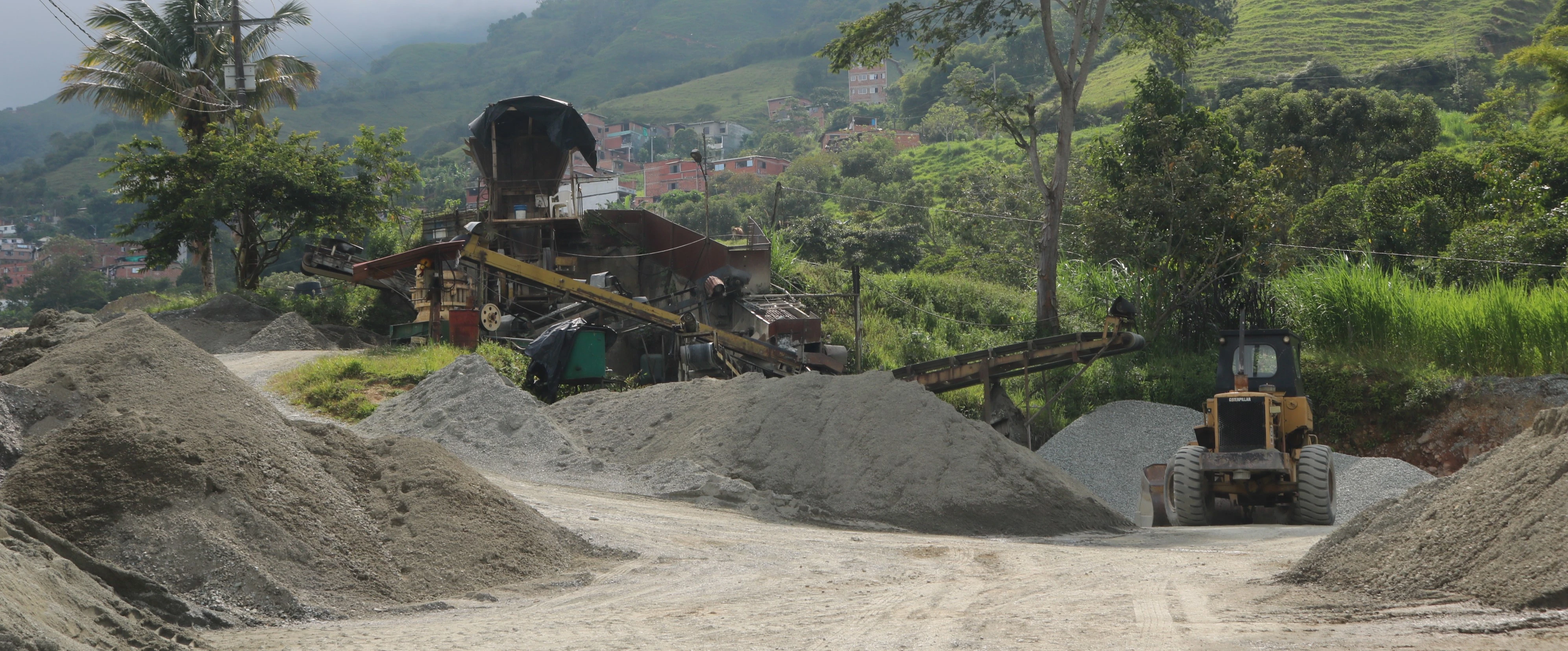
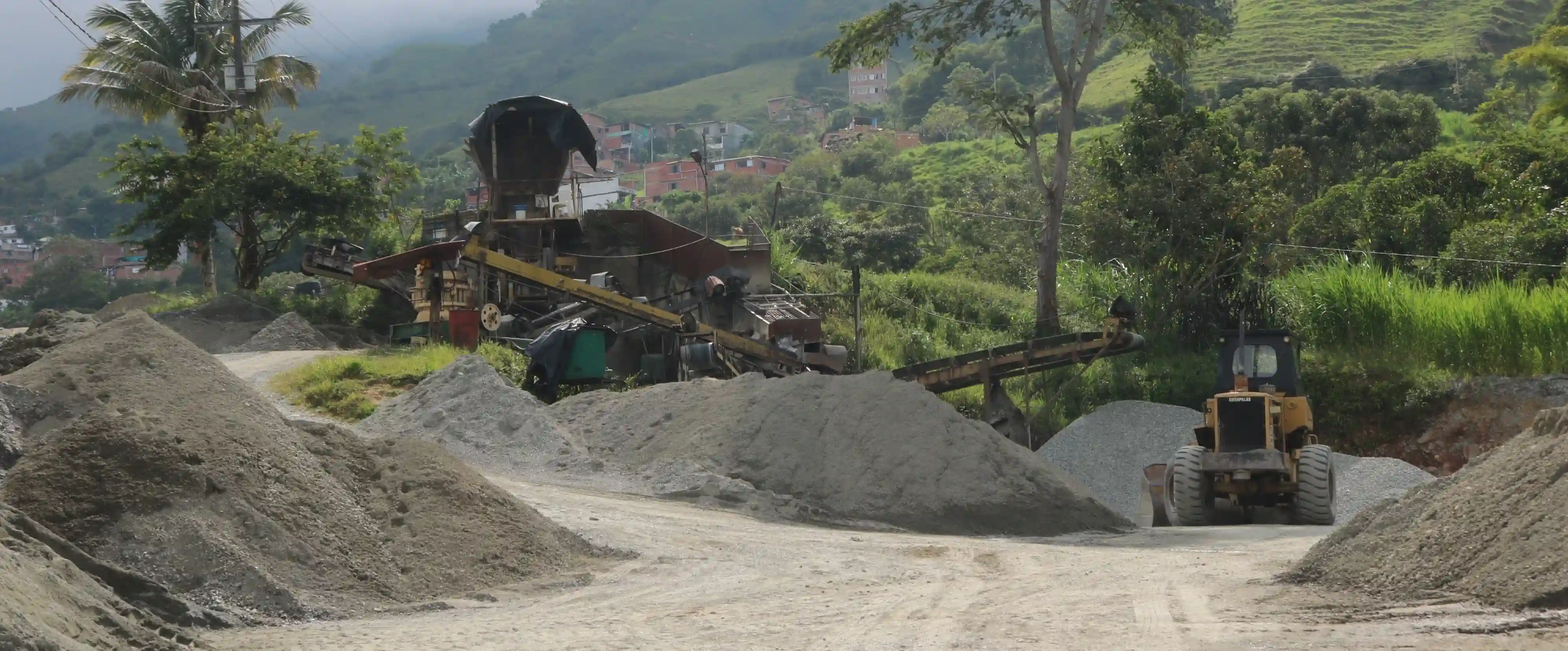
cambios realizado: se comprime la imagnes principales, se urilizan protocolos de seguridad y se organizan algunos metatag

Changed region(s): [[0.996, 0.3082, 1.0, 0.339]]

diff --git a/index.html b/index.html
@@ -2,14 +2,24 @@
 <html lang="es">
 <head>
     <meta charset="UTF-8">
-    <meta name="viewport" content="width=device-width, initial-scale=1.0">
-
-    <title>Materiales y Servicios la</title>
-    <link rel="icon" type="image/ico" href="/assets/icon/logo.ico">
+    <meta name="title" content="Materiales y Servicios la granja">
+    <meta name="description" content="Materiales la y servicios la granja es una empresa de limpiza y tratamientos de arena">
+    <meta name="keywords" content="Materiales la granja arena, materias primas de contrición, alquiler de volquetas y carrosTanque, volquetas, carrotanque, limpiado de materias primas de contrucción ">
+    <meta name="author" content="Systemteach">
     <meta property="og:title" content="Materiales y Servicios la granja"/>
     <meta property="og:description" content="Materiales la y servicios la granja es una empresa de limpiza y tratamientos de arena"/>
+    <meta property="og:image" content="https://ibarguen-dev.github.io/Materiales-granja/assets/img/logo.webp">
+    <meta name="twitter:card" content="summary">
+    <meta name="twitter:title" content="Materiales y Servicios la granja">
+    <meta name="twitter:description" content="Materiales la y servicios la granja es una empresa de limpiza y tratamientos de arena">
+    <meta name="twitter:image" content="URL de la Imagen">
+    <meta http-equiv="Content-Security-Policy" content="img-src 'self' https://cdn.jsdelivr.net">
+    <meta http-equiv="Content-Security-Policy" content="font-src 'self' https://cdn.jsdelivr.net">
+    <meta http-equiv="Content-Security-Policy" content="style-src 'self' https://cdn.jsdelivr.net">
+    <title>Materiales y Servicios la granja</title>
 
-    <meta property="og:image" content="https://ibarguen-dev.github.io/Materiales-granja/assets/img/logo.png">
+    <link rel="icon" type="image/ico" href="/assets/icon/logo.ico">
+
 
     <link rel="preload" href="https://cdn.jsdelivr.net/npm/bootstrap@5.3.2/dist/css/bootstrap.min.css" as="style" onload="this.onload=null;this.rel='stylesheet'">
     <noscript><link rel="stylesheet" href="https://cdn.jsdelivr.net/npm/bootstrap@5.3.2/dist/css/bootstrap.min.css"></noscript>
@@ -89,7 +99,7 @@
     <hr>
 
 <div class="banner">
-<img src="./assets/img/IMG_1309.webp"></img>
+<img src="./assets/img/IMG_1309.webp" alt="Imagen de fondo de la empresa"></img>
     <div class="p-5 text-white fw-bold text-center">
         <h1 class="title"> MATERIALES Y SERVICIOS LA GRANJA </h1>
     </div>

diff --git a/js/animaciones.js b/js/animaciones.js
@@ -2,11 +2,7 @@
 
 gsap.registerPlugin(ScrollTrigger);
 
-gsap.from(".banner-section", { duration: 2.5, fadein: true, x: -600});
-gsap.from(".img1", { duration: 2.6, fadein: true, x:-280});
-gsap.from(".img2", { duration: 2.5, fadein: true, x:-370});
-gsap.from(".img3", { duration: 2.3, fadein: true, x:-350});
-gsap.from(".banner_mensaje",{duration: 4.5, fadein: true, x:-500})
+
 //gsap.from(".container-section2", { duration: 3.5, fadein: false, y:80});
 
 

diff --git a/css/style.css b/css/style.css
@@ -31,6 +31,7 @@ header{
     width: 150px;
     margin-top: 10px;
     margin-left: 12px;
+    height: auto;
 }
 
 .navegacion-nav .navegacion-nav__ul{
